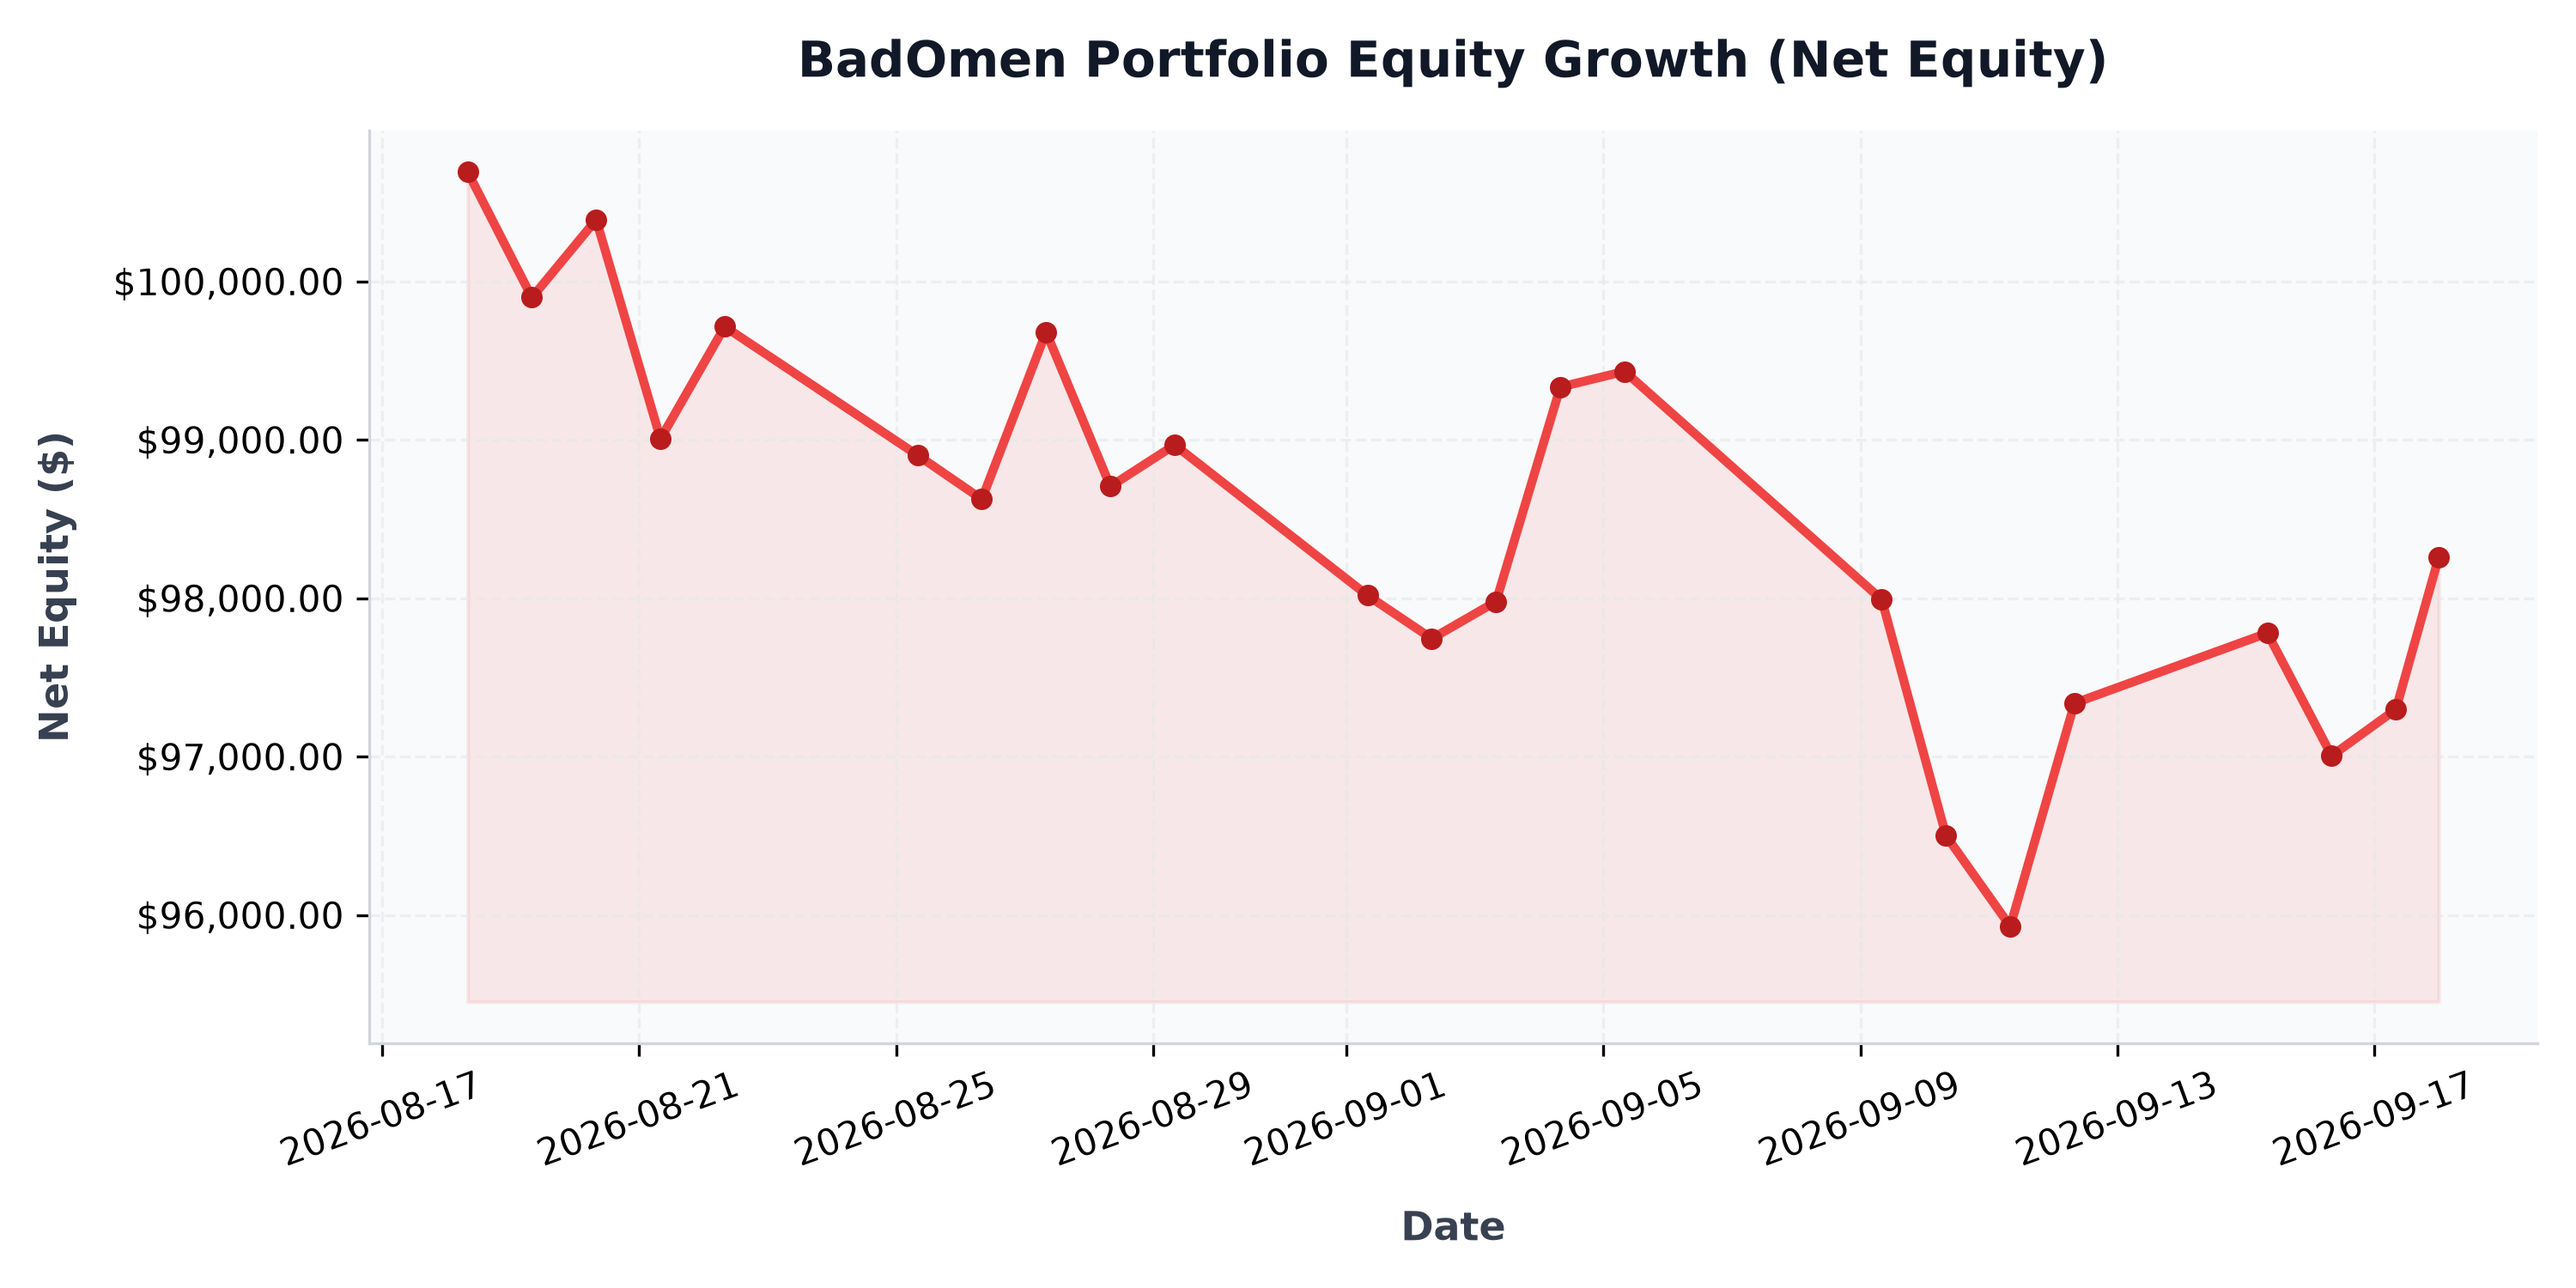
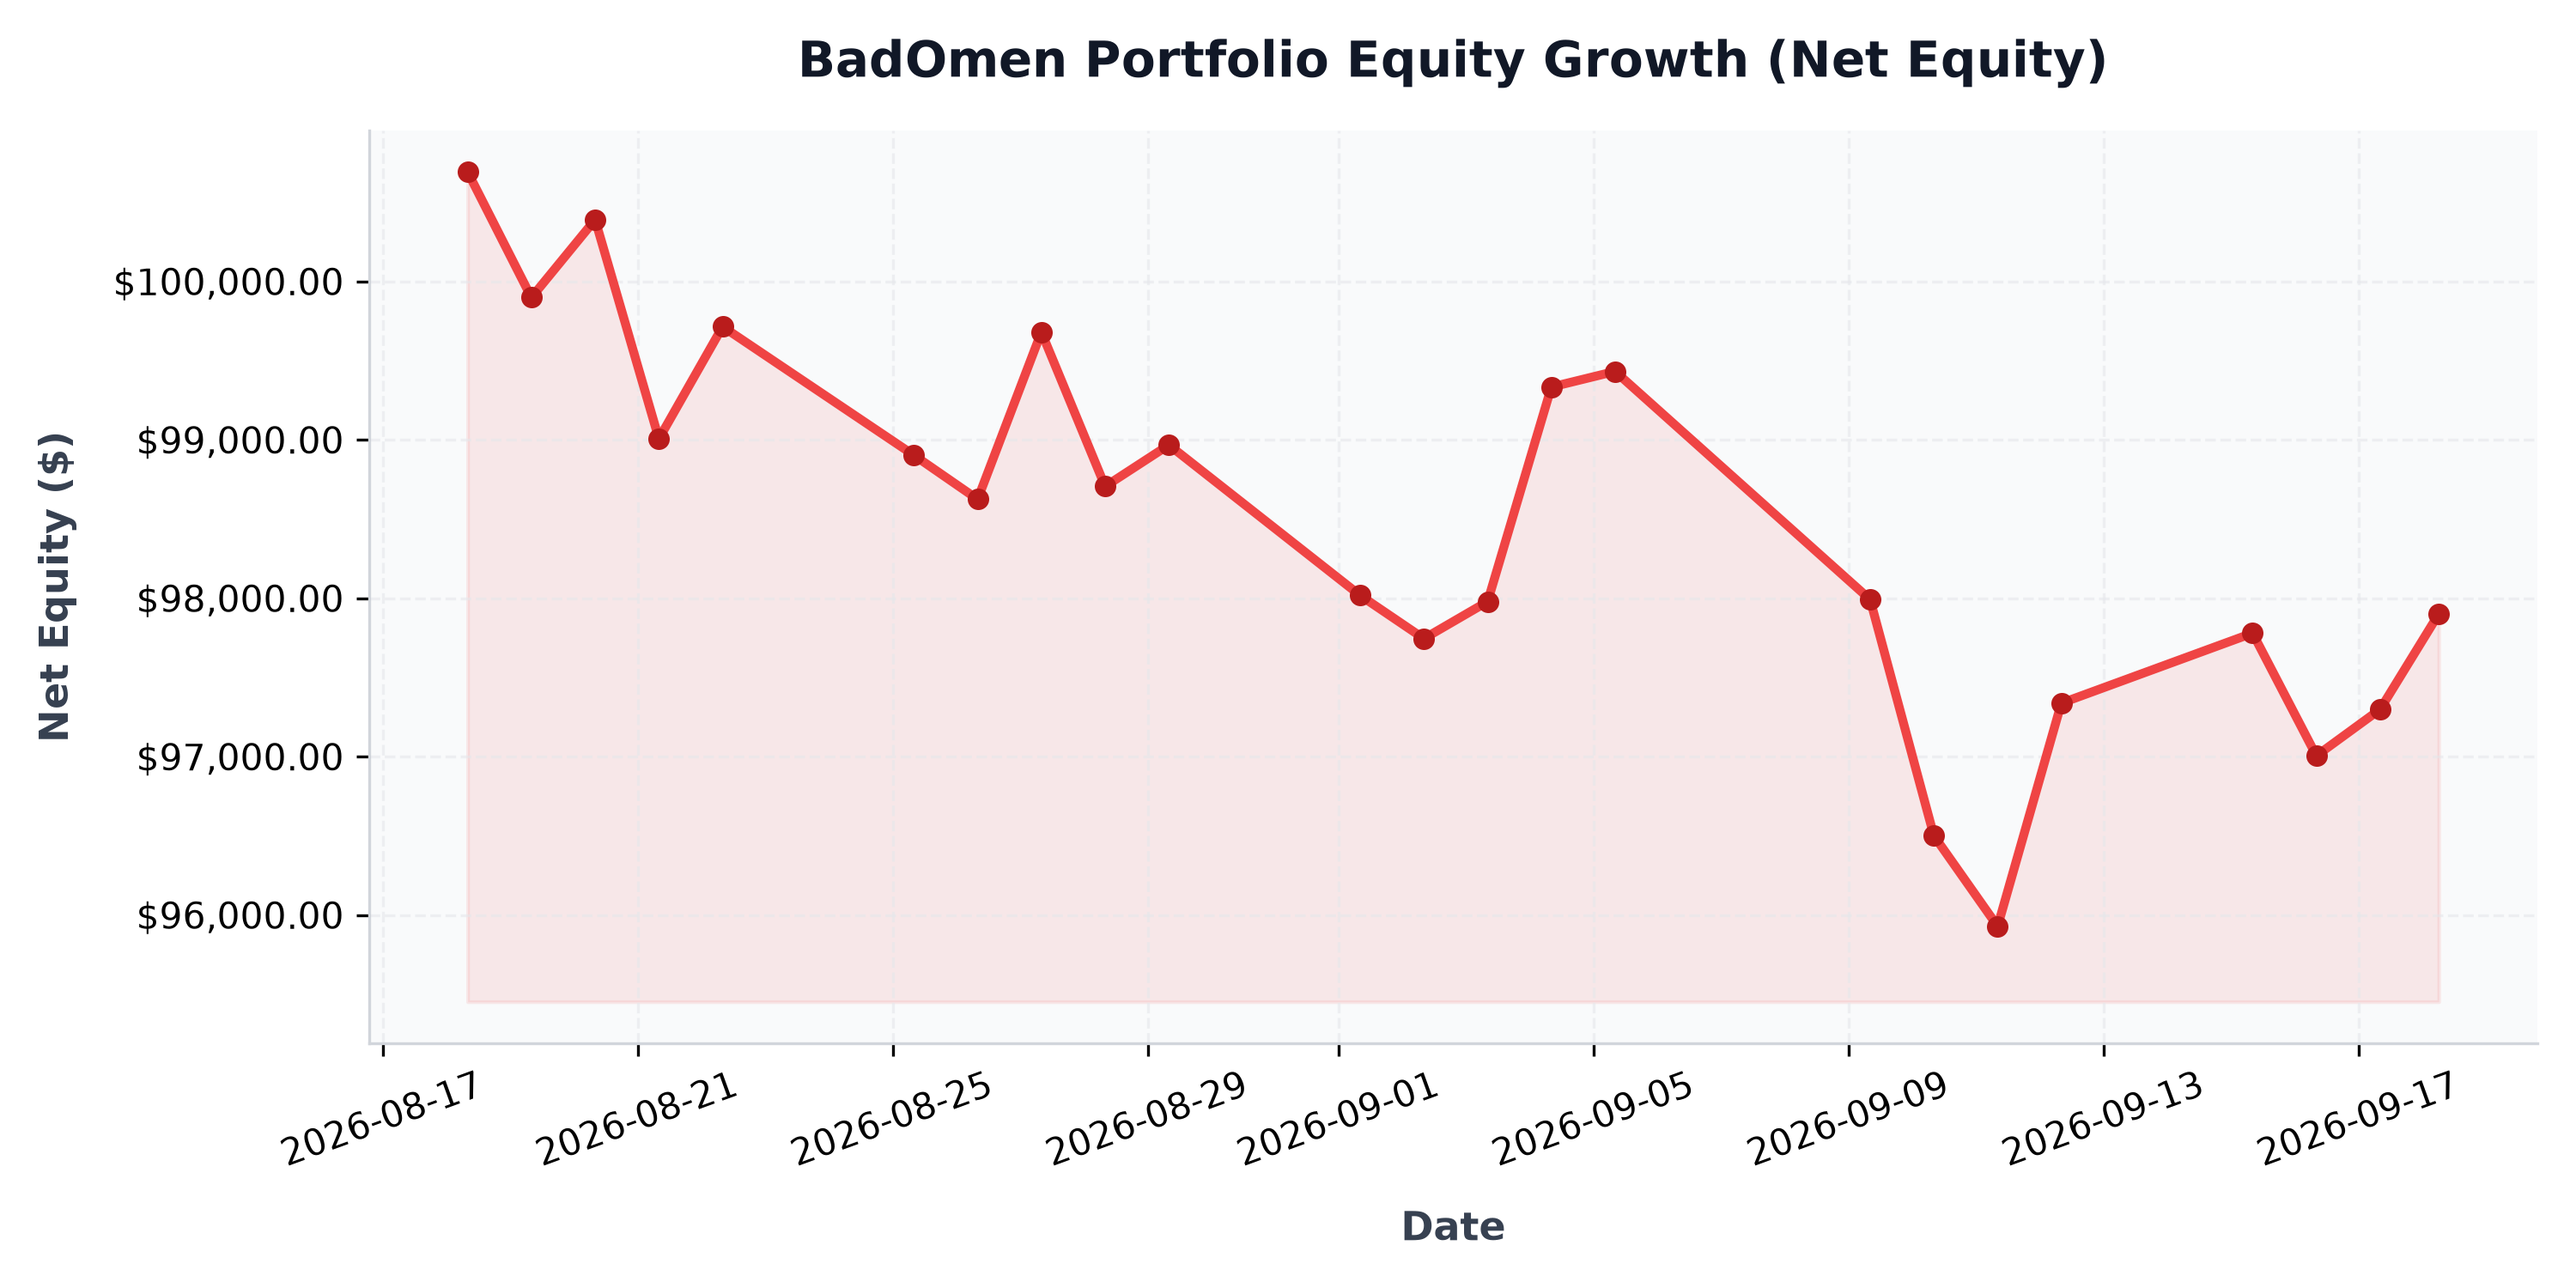
auto: daily portfolio status update - 2026-09-18 06:05:13

diff --git a/src/content/posts/portfolio-performance.md b/src/content/posts/portfolio-performance.md
@@ -1,6 +1,6 @@
 ---
 title: "BadOmen Algorithmic Portfolio Performance & PnL Report"
-pubDatetime: 2026-09-18T00:00:29.073411+08:00
+pubDatetime: 2026-09-18T06:05:13.807214+08:00
 description: "Live performance metrics, active holdings, and historic equity curve for the BadOmen automated paper trading portfolio."
 featured: true
 draft: false
@@ -16,11 +16,11 @@ Welcome to the live performance dashboard for **BadOmen**, our automated algorit
 ## 📊 Portfolio Summary
 | Performance Metric | Value | description |
 | :--- | :--- | :--- |
-| **Net Portfolio Equity** | **$98,259.65** | Total current liquidation value of cash and stock holdings |
-| **Total Unrealized P&L** | 🔴 **$-2,612.75** (-2.59%) | Total return of current open holdings |
+| **Net Portfolio Equity** | **$97,901.86** | Total current liquidation value of cash and stock holdings |
+| **Total Unrealized P&L** | 🔴 **$-2,976.88** (-2.95%) | Total return of current open holdings |
 | **Cash Balance** | $23,482.80 | Idle reserve currency available for limit orders |
-| **Buying Power** | $303,306.37 | Margin-backed buying power for entry allocations |
-| **Report Updated** | `2026-09-18 00:00:29 (SGT)` | Timestamp of daily execution and sync run |
+| **Buying Power** | $302,304.56 | Margin-backed buying power for entry allocations |
+| **Report Updated** | `2026-09-18 06:05:13 (SGT)` | Timestamp of daily execution and sync run |
 
 ## 📈 Net Equity Growth Curve
 The chart below illustrates the historical performance of the account starting from our baseline capital funding of $100,000.00.
@@ -35,36 +35,36 @@ The chart below illustrates the exposure of our currently held active positions 
 ## 💼 Current Position Holdings
 | Ticker | Industry | Shares Owned | Average Entry Cost | Current Price | Unrealized P&L | Return (%) |
 | :--- | :--- | :--- | :--- | :--- | :--- | :--- |
-| **AN** | Auto & Truck Dealerships | 5 | $188.51 | $186.24 | 🔴 $-11.34 | -1.20% |
-| **AVGO** | Semiconductors | 1 | $385.71 | $349.12 | 🔴 $-36.59 | -9.49% |
-| **BIRK** | Footwear & Accessories | 407 | $37.32 | $31.42 | 🔴 $-2,400.37 | -15.80% |
-| **BLBD** | Farm & Heavy Construction Machinery | 231 | $65.52 | $61.38 | 🔴 $-955.41 | -6.31% |
-| **BVN** | Other Precious Metals & Mining | 32 | $31.88 | $34.91 | 🟢 +$97.12 | +9.52% |
-| **CELH** | Beverages - Non-Alcoholic | 33 | $29.71 | $28.42 | 🔴 $-42.66 | -4.35% |
-| **CPRI** | Luxury Goods | 1042 | $14.55 | $15.16 | 🟢 +$638.95 | +4.21% |
-| **DUOL** | Software - Application | 14 | $131.04 | $145.49 | 🟢 +$202.24 | +11.02% |
-| **FIS** | Information Technology Services | 23 | $41.79 | $36.60 | 🔴 $-119.37 | -12.42% |
-| **GDDY** | Software - Infrastructure | 6 | $76.21 | $98.48 | 🟢 +$133.62 | +29.22% |
-| **GDS** | Information Technology Services | 30 | $32.77 | $31.49 | 🔴 $-38.40 | -3.91% |
-| **GGAL** | Banks - Regional | 17 | $56.04 | $43.07 | 🔴 $-220.48 | -23.14% |
-| **GOOGL** | Internet Content & Information | 3 | $319.44 | $345.38 | 🟢 +$77.82 | +8.12% |
-| **GPI** | Auto & Truck Dealerships | 3 | $316.15 | $261.49 | 🔴 $-163.98 | -17.29% |
-| **HUBS** | Software - Application | 8 | $221.18 | $227.53 | 🟢 +$50.79 | +2.87% |
-| **ITRI** | Scientific & Technical Instruments | 12 | $81.80 | $91.58 | 🟢 +$117.42 | +11.96% |
-| **KBR** | Engineering & Construction | 27 | $36.23 | $36.80 | 🟢 +$15.44 | +1.58% |
-| **META** | Internet Content & Information | 1 | $568.17 | $678.87 | 🟢 +$110.70 | +19.48% |
-| **NESR** | Oil & Gas Equipment & Services | 34 | $28.74 | $32.20 | 🟢 +$117.64 | +12.04% |
-| **NU** | Banks - Regional | 57 | $11.60 | $13.95 | 🟢 +$133.75 | +20.23% |
-| **ON** | Semiconductors | 10 | $90.45 | $68.17 | 🔴 $-222.90 | -24.64% |
-| **ORCL** | Software - Infrastructure | 5 | $181.95 | $151.69 | 🔴 $-151.28 | -16.63% |
-| **PATH** | Software - Infrastructure | 38 | $10.25 | $13.78 | 🟢 +$133.95 | +34.39% |
-| **PYPL** | Credit Services | 17 | $56.05 | $53.28 | 🔴 $-47.09 | -4.94% |
-| **QCOM** | Semiconductors | 15 | $193.68 | $189.34 | 🔴 $-65.25 | -2.25% |
-| **SMCI** | Computer Hardware | 22 | $29.25 | $40.22 | 🟢 +$241.23 | +37.49% |
-| **SRE** | Utilities - Diversified | 57 | $84.75 | $81.59 | 🔴 $-179.97 | -3.73% |
-| **T** | Telecom Services | 47 | $20.85 | $25.57 | 🟢 +$222.07 | +22.66% |
-| **WEN** | Restaurants | 257 | $8.02 | $7.09 | 🔴 $-238.68 | -11.58% |
-| **ZG** | Internet Content & Information | 31 | $31.35 | $30.98 | 🔴 $-11.73 | -1.21% |
+| **AN** | Auto & Truck Dealerships | 5 | $188.51 | $175.30 | 🔴 $-66.04 | -7.01% |
+| **AVGO** | Semiconductors | 1 | $385.71 | $348.06 | 🔴 $-37.65 | -9.76% |
+| **BIRK** | Footwear & Accessories | 407 | $37.32 | $31.37 | 🔴 $-2,420.72 | -15.94% |
+| **BLBD** | Farm & Heavy Construction Machinery | 231 | $65.52 | $60.93 | 🔴 $-1,059.36 | -7.00% |
+| **BVN** | Other Precious Metals & Mining | 32 | $31.88 | $34.71 | 🟢 +$90.72 | +8.89% |
+| **CELH** | Beverages - Non-Alcoholic | 33 | $29.71 | $28.50 | 🔴 $-40.02 | -4.08% |
+| **CPRI** | Luxury Goods | 1042 | $14.55 | $14.95 | 🟢 +$414.92 | +2.74% |
+| **DUOL** | Software - Application | 14 | $131.04 | $147.50 | 🟢 +$230.38 | +12.56% |
+| **FIS** | Information Technology Services | 23 | $41.79 | $36.83 | 🔴 $-114.08 | -11.87% |
+| **GDDY** | Software - Infrastructure | 6 | $76.21 | $98.40 | 🟢 +$133.14 | +29.12% |
+| **GDS** | Information Technology Services | 30 | $32.77 | $31.35 | 🔴 $-42.60 | -4.33% |
+| **GGAL** | Banks - Regional | 17 | $56.04 | $42.62 | 🔴 $-228.13 | -23.95% |
+| **GOOGL** | Internet Content & Information | 3 | $319.44 | $346.78 | 🟢 +$82.03 | +8.56% |
+| **GPI** | Auto & Truck Dealerships | 3 | $316.15 | $254.95 | 🔴 $-183.60 | -19.36% |
+| **HUBS** | Software - Application | 8 | $221.18 | $230.00 | 🟢 +$70.55 | +3.99% |
+| **ITRI** | Scientific & Technical Instruments | 12 | $81.80 | $91.38 | 🟢 +$114.96 | +11.71% |
+| **KBR** | Engineering & Construction | 27 | $36.23 | $36.70 | 🟢 +$12.61 | +1.29% |
+| **META** | Internet Content & Information | 1 | $568.17 | $680.63 | 🟢 +$112.46 | +19.79% |
+| **NESR** | Oil & Gas Equipment & Services | 34 | $28.74 | $32.50 | 🟢 +$127.84 | +13.08% |
+| **NU** | Banks - Regional | 57 | $11.60 | $13.91 | 🟢 +$131.75 | +19.93% |
+| **ON** | Semiconductors | 10 | $90.45 | $68.71 | 🔴 $-217.46 | -24.04% |
+| **ORCL** | Software - Infrastructure | 5 | $181.95 | $150.57 | 🔴 $-156.90 | -17.25% |
+| **PATH** | Software - Infrastructure | 38 | $10.25 | $13.78 | 🟢 +$134.14 | +34.44% |
+| **PYPL** | Credit Services | 17 | $56.05 | $52.93 | 🔴 $-53.04 | -5.57% |
+| **QCOM** | Semiconductors | 15 | $193.68 | $188.50 | 🔴 $-77.77 | -2.68% |
+| **SMCI** | Computer Hardware | 22 | $29.25 | $40.42 | 🟢 +$245.76 | +38.19% |
+| **SRE** | Utilities - Diversified | 57 | $84.75 | $82.50 | 🔴 $-128.39 | -2.66% |
+| **T** | Telecom Services | 47 | $20.85 | $25.44 | 🟢 +$215.73 | +22.01% |
+| **WEN** | Restaurants | 257 | $8.02 | $7.04 | 🔴 $-252.82 | -12.26% |
+| **ZG** | Internet Content & Information | 31 | $31.35 | $30.86 | 🔴 $-15.29 | -1.57% |
 
 ## 🔴 Recent Realized Trades
 | Ticker | Shares Sold | Entry Price | Exit Price | Strategy Trigger | Realized Return | Exit Date |
